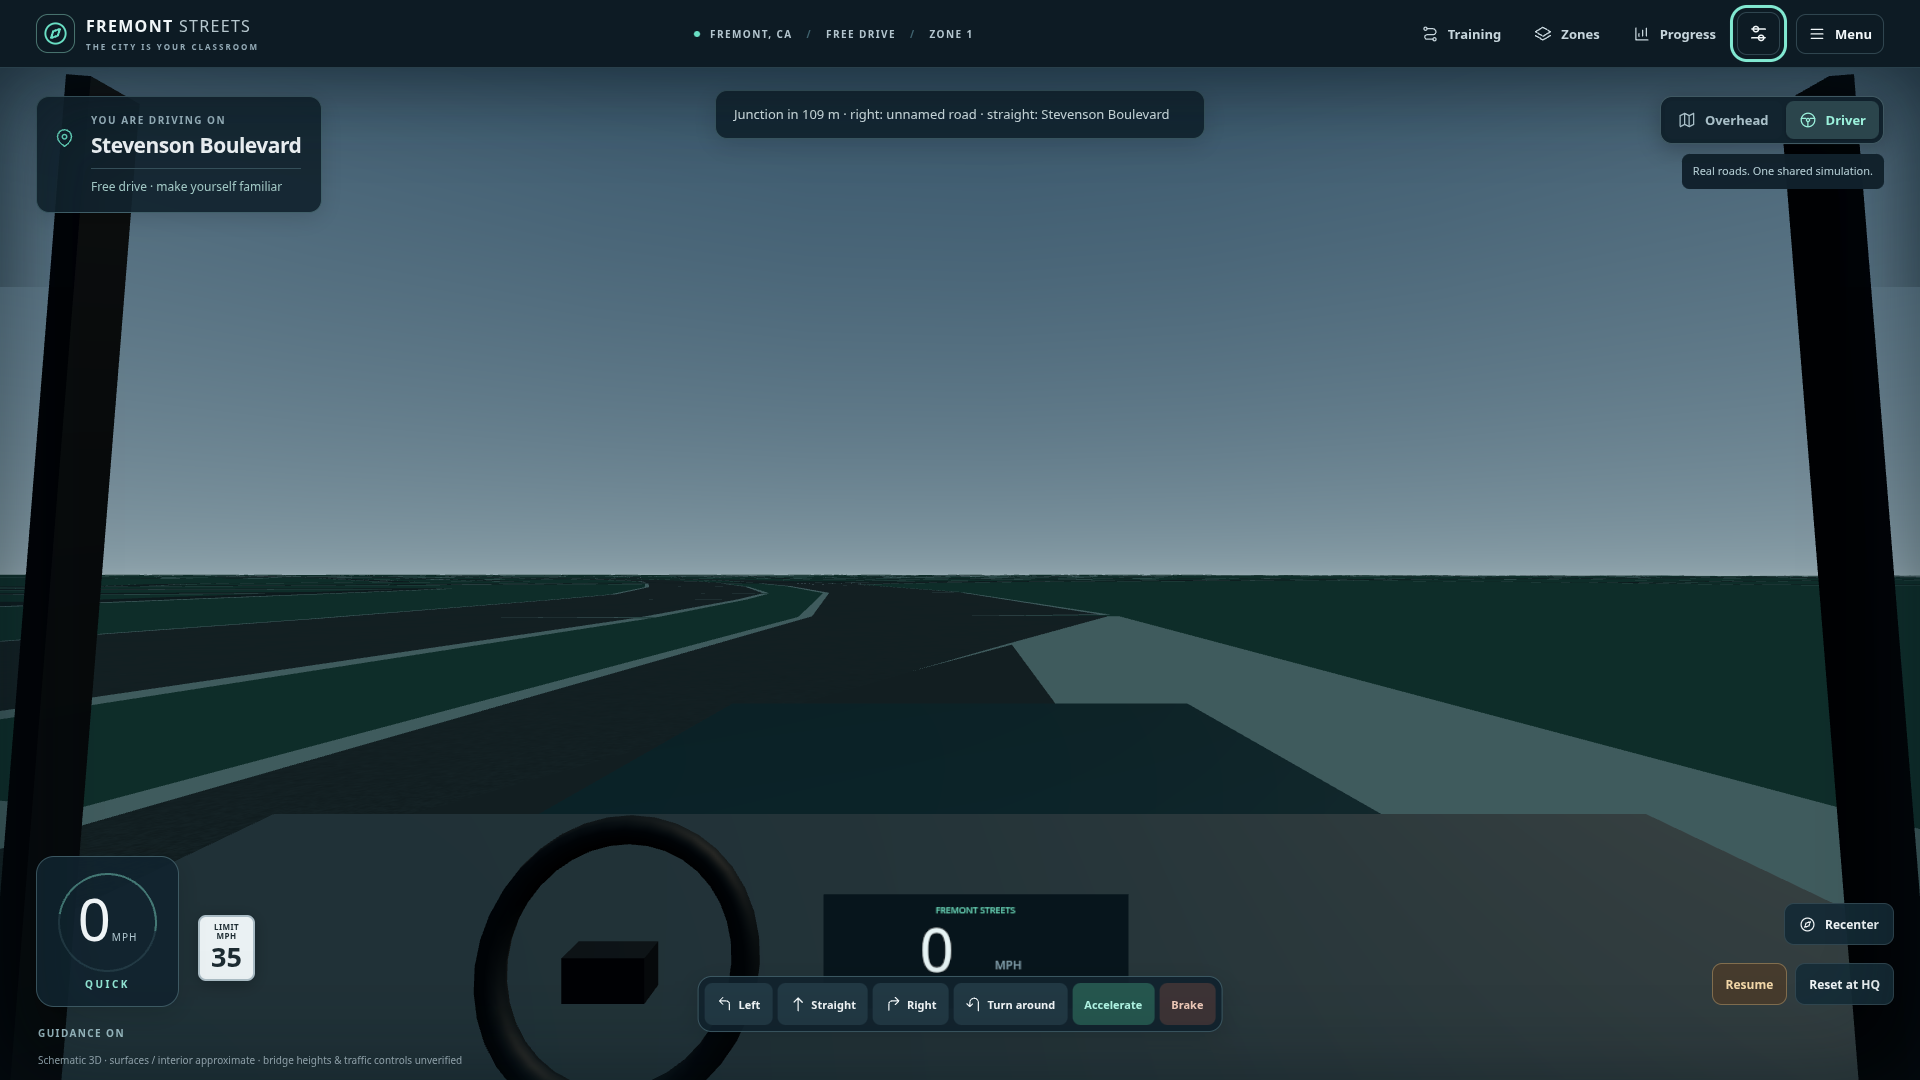
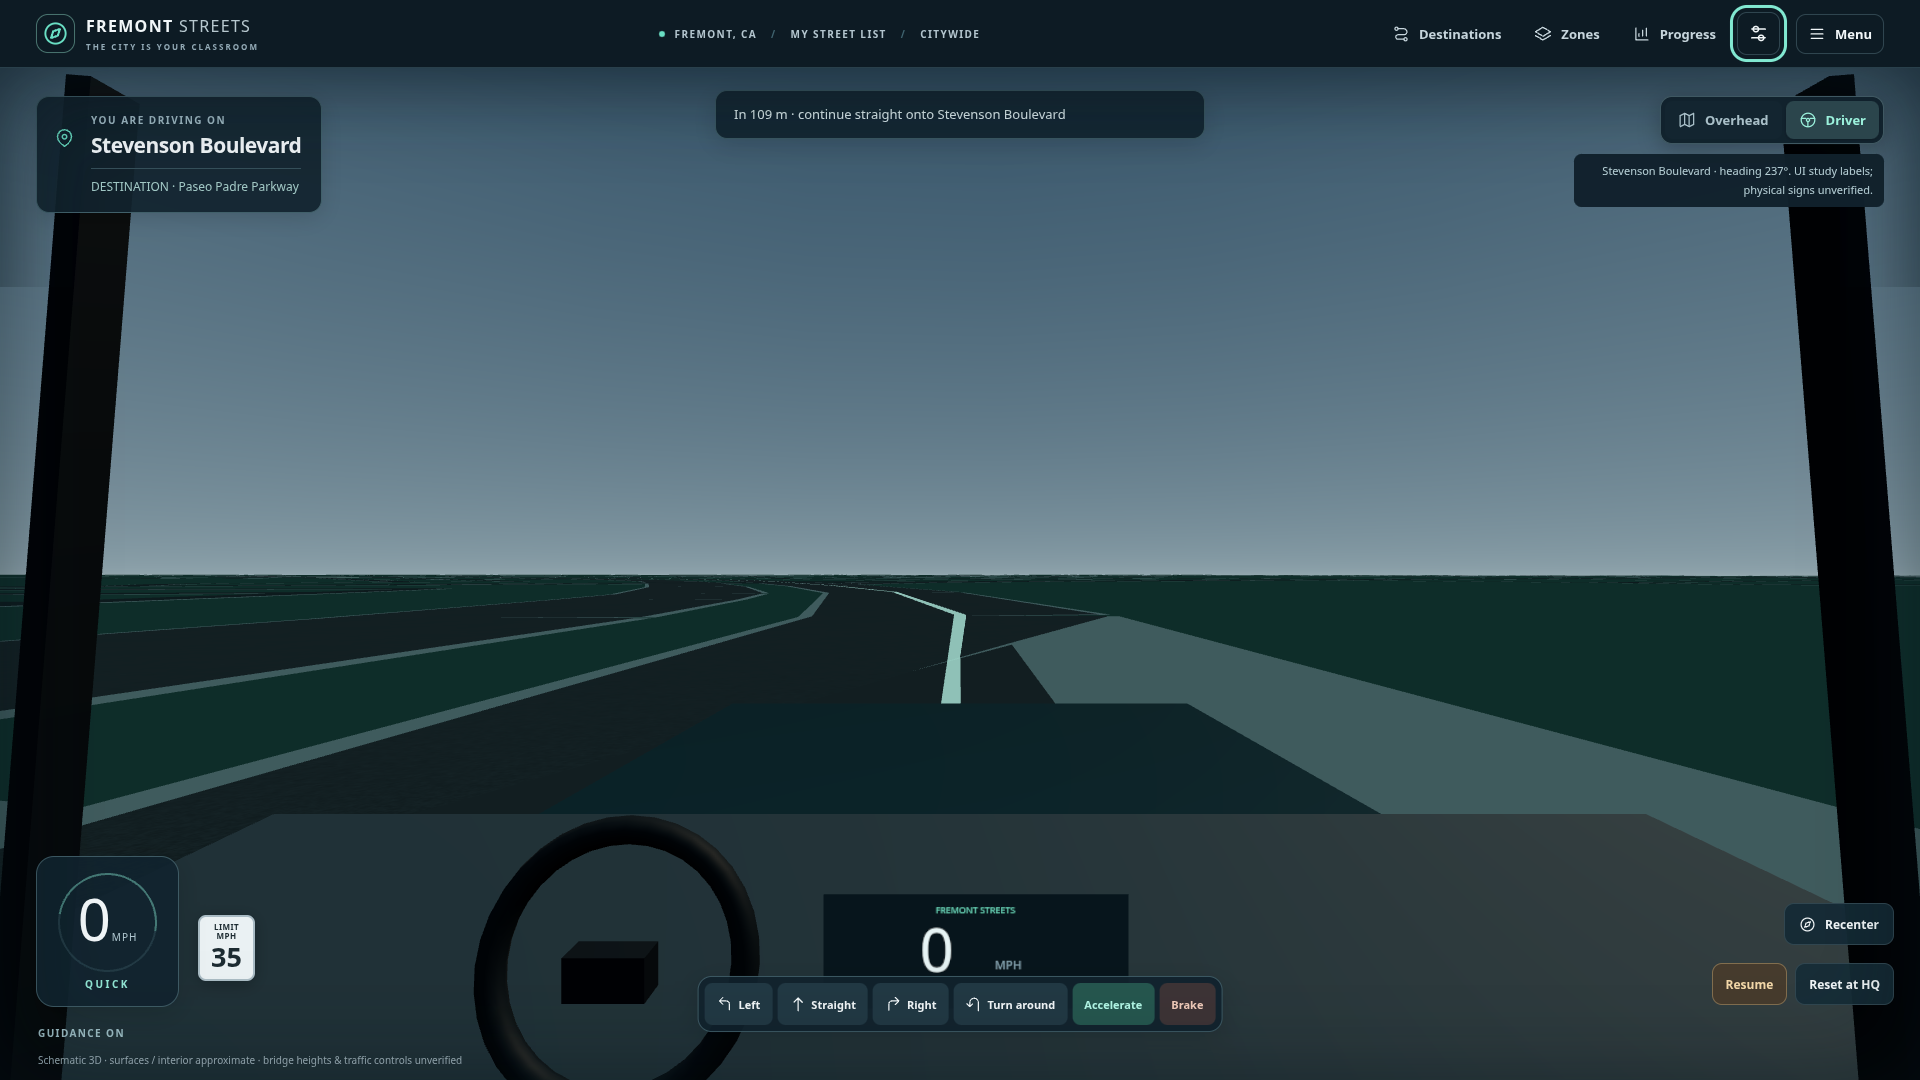
Keep navigation ribbons behind the driver cockpit

diff --git a/e2e/redesign.spec.ts b/e2e/redesign.spec.ts
@@ -39,13 +39,13 @@ test('settings suspend a moving car, inputs cannot steer, and driving resumes wi
 });
 
 test('map settings, HUD controls and driver quality change presentation without changing the simulation',async({page},info)=>{
- await page.setViewportSize({width:1920,height:1080});await start(page);await closePanel(page);await page.getByTestId('pause-toggle').click();const initial=await snapshot(page);
+ await page.setViewportSize({width:1920,height:1080});await start(page);await chooseMode(page,'study');await page.getByTestId('study-start').click();await page.getByTestId('pause-toggle').click();const initial=await snapshot(page);expect(initial.route?.edgeIds.length).toBeGreaterThan(1);
  await openPanel(page,'settings');await page.locator('#map-orientation').selectOption('heading');await page.locator('#map-zoom').fill('15.5');await page.locator('#map-zoom').dispatchEvent('input');await page.locator('#map-follow').uncheck();await page.locator('#hud-visible').uncheck();
  const changed=await snapshot(page);expect(changed.presentation.map.headingUp).toBe(true);expect(changed.presentation.map.followVehicle).toBe(false);expect(changed.presentation.map.zoom).toBeCloseTo(15.5);expect(changed.vehicle).toEqual(initial.vehicle);expect(changed.profile).toBe('QUICK');expect(changed.maxSpeed).toBe(100);await expect(page.locator('.street-banner')).not.toBeVisible();
  await page.locator('#hud-visible').check();await page.locator('#map-orientation').selectOption('north');await page.locator('#map-zoom').fill('16.5');await page.locator('#map-zoom').dispatchEvent('input');await closePanel(page);await page.keyboard.press('c');await expect(page.getByTestId('driver-view')).toHaveAttribute('data-renderer-ready','true');
- const driver=await snapshot(page);expect(driver.vehicle).toEqual(initial.vehicle);expect(driver.presentation.driver.drawCalls).toBeGreaterThan(5);expect(driver.presentation.driver.triangles).toBeGreaterThan(1000);await page.screenshot({path:info.outputPath('03-drivers-seat.png')});
+ const driver=await snapshot(page);expect(driver.vehicle).toEqual(initial.vehicle);expect(driver.presentation.driver.drawCalls).toBeGreaterThan(5);expect(driver.presentation.driver.triangles).toBeGreaterThan(1000);expect(driver.route).toEqual(initial.route);await expect(page.locator('#camera-driver')).toHaveAttribute('aria-pressed','true');await page.screenshot({path:info.outputPath('03-drivers-seat.png'),animations:'disabled'});
  await openPanel(page,'settings');await page.locator('#graphics-quality').selectOption('low');await closePanel(page);const efficient=await snapshot(page);expect(efficient.presentation.driver.quality).toBe('low');expect(efficient.presentation.driver.pixelRatio).toBeLessThan(1);expect(efficient.vehicle).toEqual(initial.vehicle);
- await page.setViewportSize({width:1280,height:800});await expect.poll(async()=>(await snapshot(page)).presentation.driver.aspect).toBeCloseTo(1280/(800-68),2);await page.keyboard.press('c');expect((await snapshot(page)).vehicle).toEqual(initial.vehicle);await expect(page.getByTestId('overhead-view')).toBeVisible();
+ await page.setViewportSize({width:1280,height:800});await expect.poll(async()=>(await snapshot(page)).presentation.driver.aspect).toBeCloseTo(1280/(800-68),2);await page.keyboard.press('c');expect((await snapshot(page)).vehicle).toEqual(initial.vehicle);await expect(page.getByTestId('overhead-view')).toBeVisible();await expect(page.locator('#camera-overhead')).toHaveAttribute('aria-pressed','true');
 });
 
 test('personal street selection, navigation, learning dashboard and settings provide real data',async({page},info)=>{

diff --git a/src/views/driver.ts b/src/views/driver.ts
@@ -116,8 +116,10 @@ export class DriverView {
     const hub=new THREE.Mesh(new THREE.BoxGeometry(.1,.055,.04),material);hub.position.set(-.43,-.49,-.89);this.camera.add(hub);
     this.dashboardCanvas=document.createElement('canvas');this.dashboardCanvas.width=512;this.dashboardCanvas.height=192;this.dashboardTexture=new THREE.CanvasTexture(this.dashboardCanvas);this.dashboardTexture.colorSpace=THREE.SRGBColorSpace;
     const screen=new THREE.Mesh(new THREE.PlaneGeometry(.38,.1425),new THREE.MeshBasicMaterial({map:this.dashboardTexture,toneMapped:false}));screen.position.set(.02,-.47,-.9);this.camera.add(screen);
-    // A foreground cockpit must not be hidden by the flat world pass.
-    this.camera.children.forEach((part,index)=>{if(part instanceof THREE.Mesh){part.renderOrder=20+index;part.material.depthTest=false;part.material.depthWrite=false;}});this.camera.children[2].renderOrder=19;
+    // Keep the cockpit in the transparent queue after world ribbons. Three.js
+    // renders transparent world meshes after opaque meshes regardless of renderOrder.
+    // Fully opaque foreground materials still blend at opacity 1.
+    this.camera.children.forEach((part,index)=>{if(part instanceof THREE.Mesh){part.renderOrder=20+index;part.material.transparent=true;part.material.opacity=1;part.material.depthTest=false;part.material.depthWrite=false;}});this.camera.children[2].renderOrder=19;
     this.scene.add(this.camera);this.drawInstruments(0);
   }
   private drawInstruments(speed:number){const ctx=this.dashboardCanvas?.getContext('2d');if(!ctx||!this.dashboardTexture)return;ctx.fillStyle='#07151c';ctx.fillRect(0,0,512,192);ctx.fillStyle='#e7f4f5';ctx.font='500 100px system-ui';ctx.textAlign='center';ctx.fillText(String(speed),190,130);ctx.font='20px system-ui';ctx.fillStyle='#8babb9';ctx.fillText('MPH',310,126);ctx.fillStyle='#71e5c7';ctx.fillRect(65,160,382*Math.min(speed/100,1),3);ctx.font='15px system-ui';ctx.fillText('FREMONT STREETS',255,32);this.dashboardTexture.needsUpdate=true;}

diff --git a/docs/redesign.md b/docs/redesign.md
@@ -114,6 +114,9 @@ were captured and inspected. Refinements included:
 - Increasing menu type sizes, reducing panel transparency and preventing stale
   map notifications from showing through newly opened panels.
 - Fixing focus escaping at the end of a dialog's tab sequence.
+- Correcting transparent route/turn ribbons drawing across the cockpit, found
+  during public-site inspection. The foreground interior now renders after
+  world ribbons; the driver screenshot includes an active navigation route.
 
 Eight representative final screenshots are captured by the UI browser suite
 and published in [the screenshot gallery](screenshots/README.md).
@@ -126,11 +129,14 @@ and published in [the screenshot gallery](screenshots/README.md).
   assertions; later refinements are covered by the final complete suites.
 - `npm run test:e2e`: **10 passed** in 4.9 minutes. The development-only
   editor passed again after its final dark form/status refinement (one targeted
-  browser check).
+  browser check). A repeated complete run with `CI=1` also passed all ten.
 - `npm run test:production`: **17 passed** in 8.5 minutes, covering the existing
   static/gameplay scenarios plus seven new UI checks. No failed/skipped cases.
   After simplifying the bulk rendering, **nine affected browser checks passed**
   again, including the seven UI cases, both cameras and actual no-GPS driving.
+  After the final cockpit layering correction, **four affected checks passed**
+  in 2.3 minutes: both rendered cameras, an active-route driver capture and
+  working settings, reduced motion/held throttle, and real no-GPS completion.
 
 The existing tests still exercise real driving controls and challenge completion.
 They were adapted to open the relevant menu/dialog instead of assuming permanent
@@ -155,11 +161,11 @@ Chromium/SwiftShader with reduced motion:
 
 | View | Balanced | Efficient |
 |---|---:|---:|
-| Driver | 6.3 FPS | 8.3 FPS |
-| Overhead | 10.6 FPS | 13.5 FPS |
+| Driver | 5.8 FPS | 8.4 FPS |
+| Overhead | 10.3 FPS | 12.4 FPS |
 
 Each observation uses a one-second warmup followed by two seconds during actual
-driving. The warmed sampling check passed separately after the nine affected
+driving. The current sample was collected during the four final affected
 checks. These are
 short software-rendering samples, not a representative GPU benchmark or a
 claimed 60 FPS result. [The earlier sample](redesign-performance-before.json)

diff --git a/docs/screenshots/README.md b/docs/screenshots/README.md
@@ -3,7 +3,8 @@
 Captured from the production build served under `/fremontStreets/` using
 Chromium. Desktop captures are 1920×1080; the laptop capture is 1280×800.
 They show the actual game with its bundled source-backed roads and browser-local
-state. Initial and refined captures were inspected during implementation.
+state. Initial and refined captures were inspected during implementation. The driver
+capture includes an active navigation route after the final cockpit layering fix.
 
 | Screen | Capture |
 |---|---|
